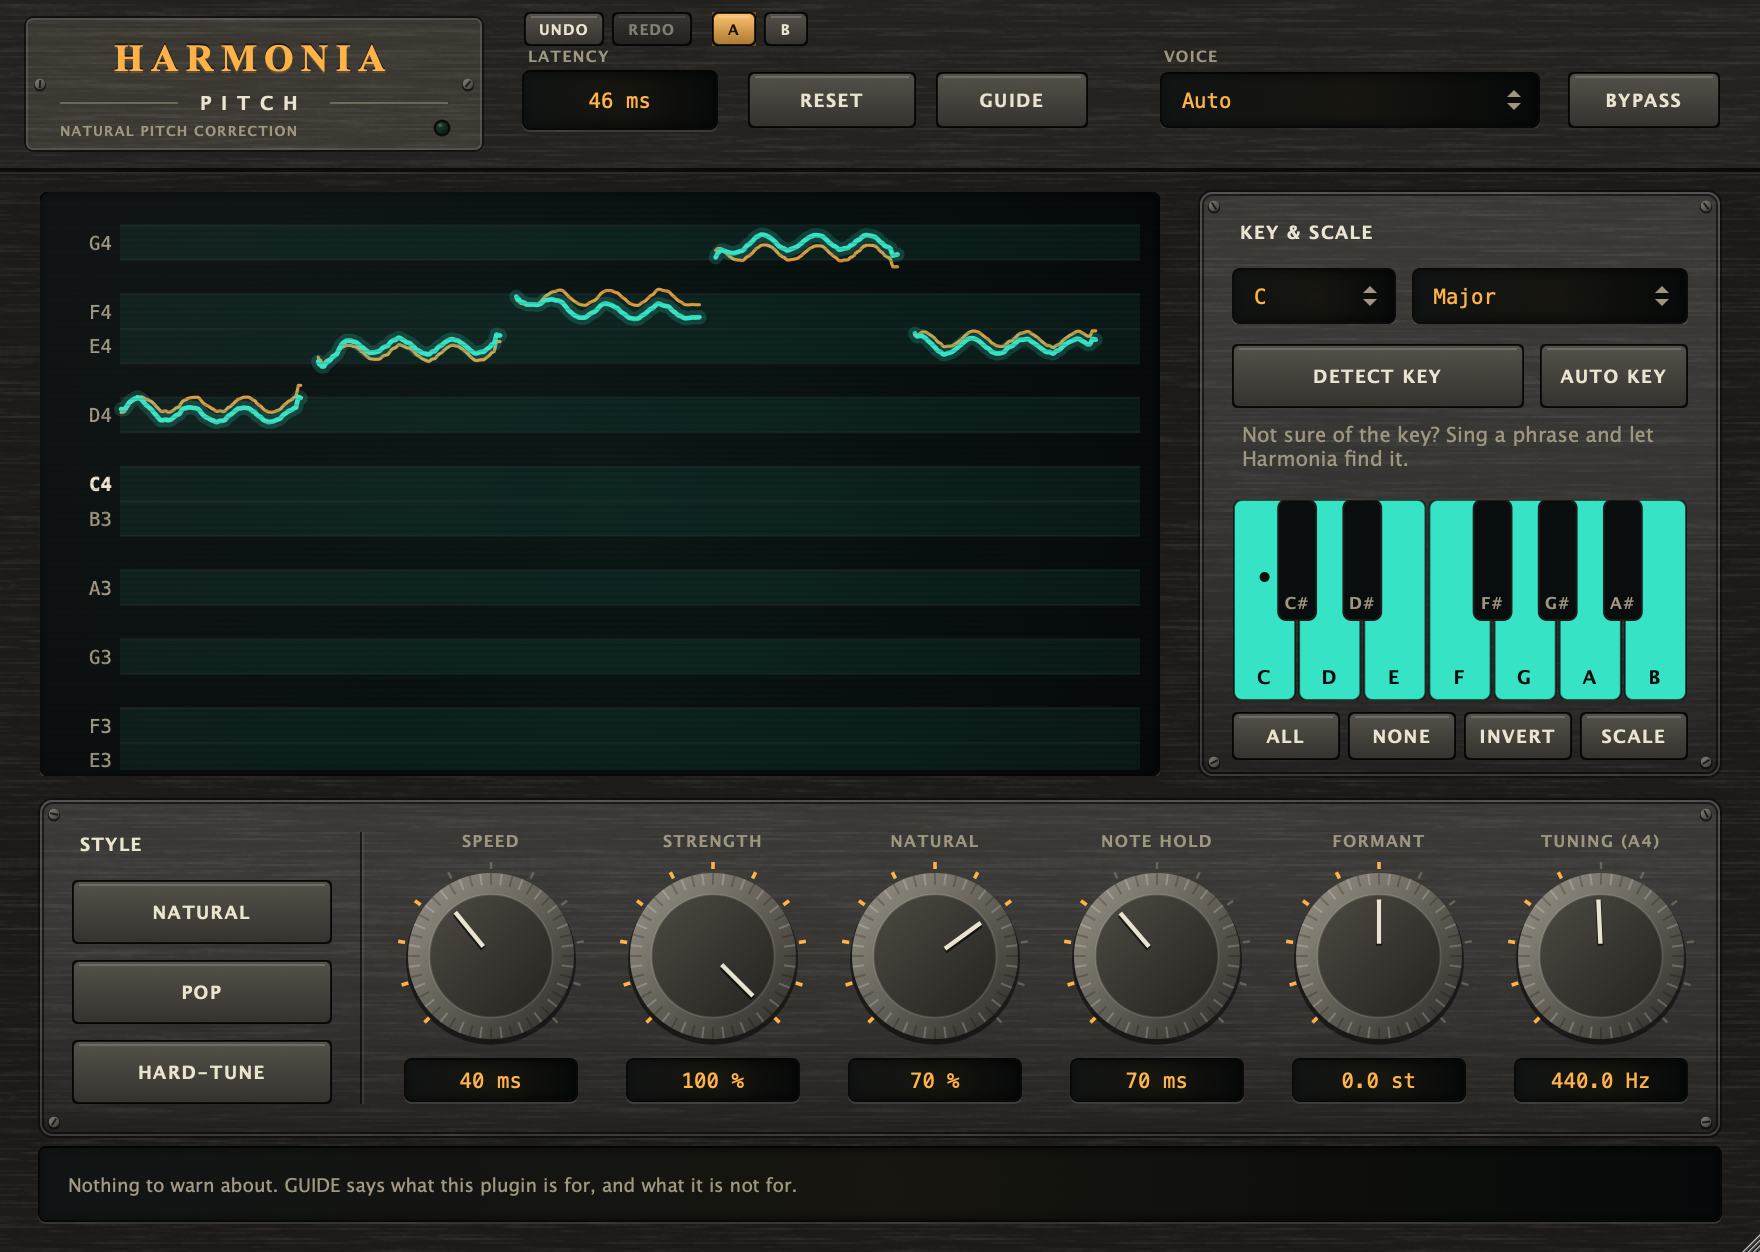
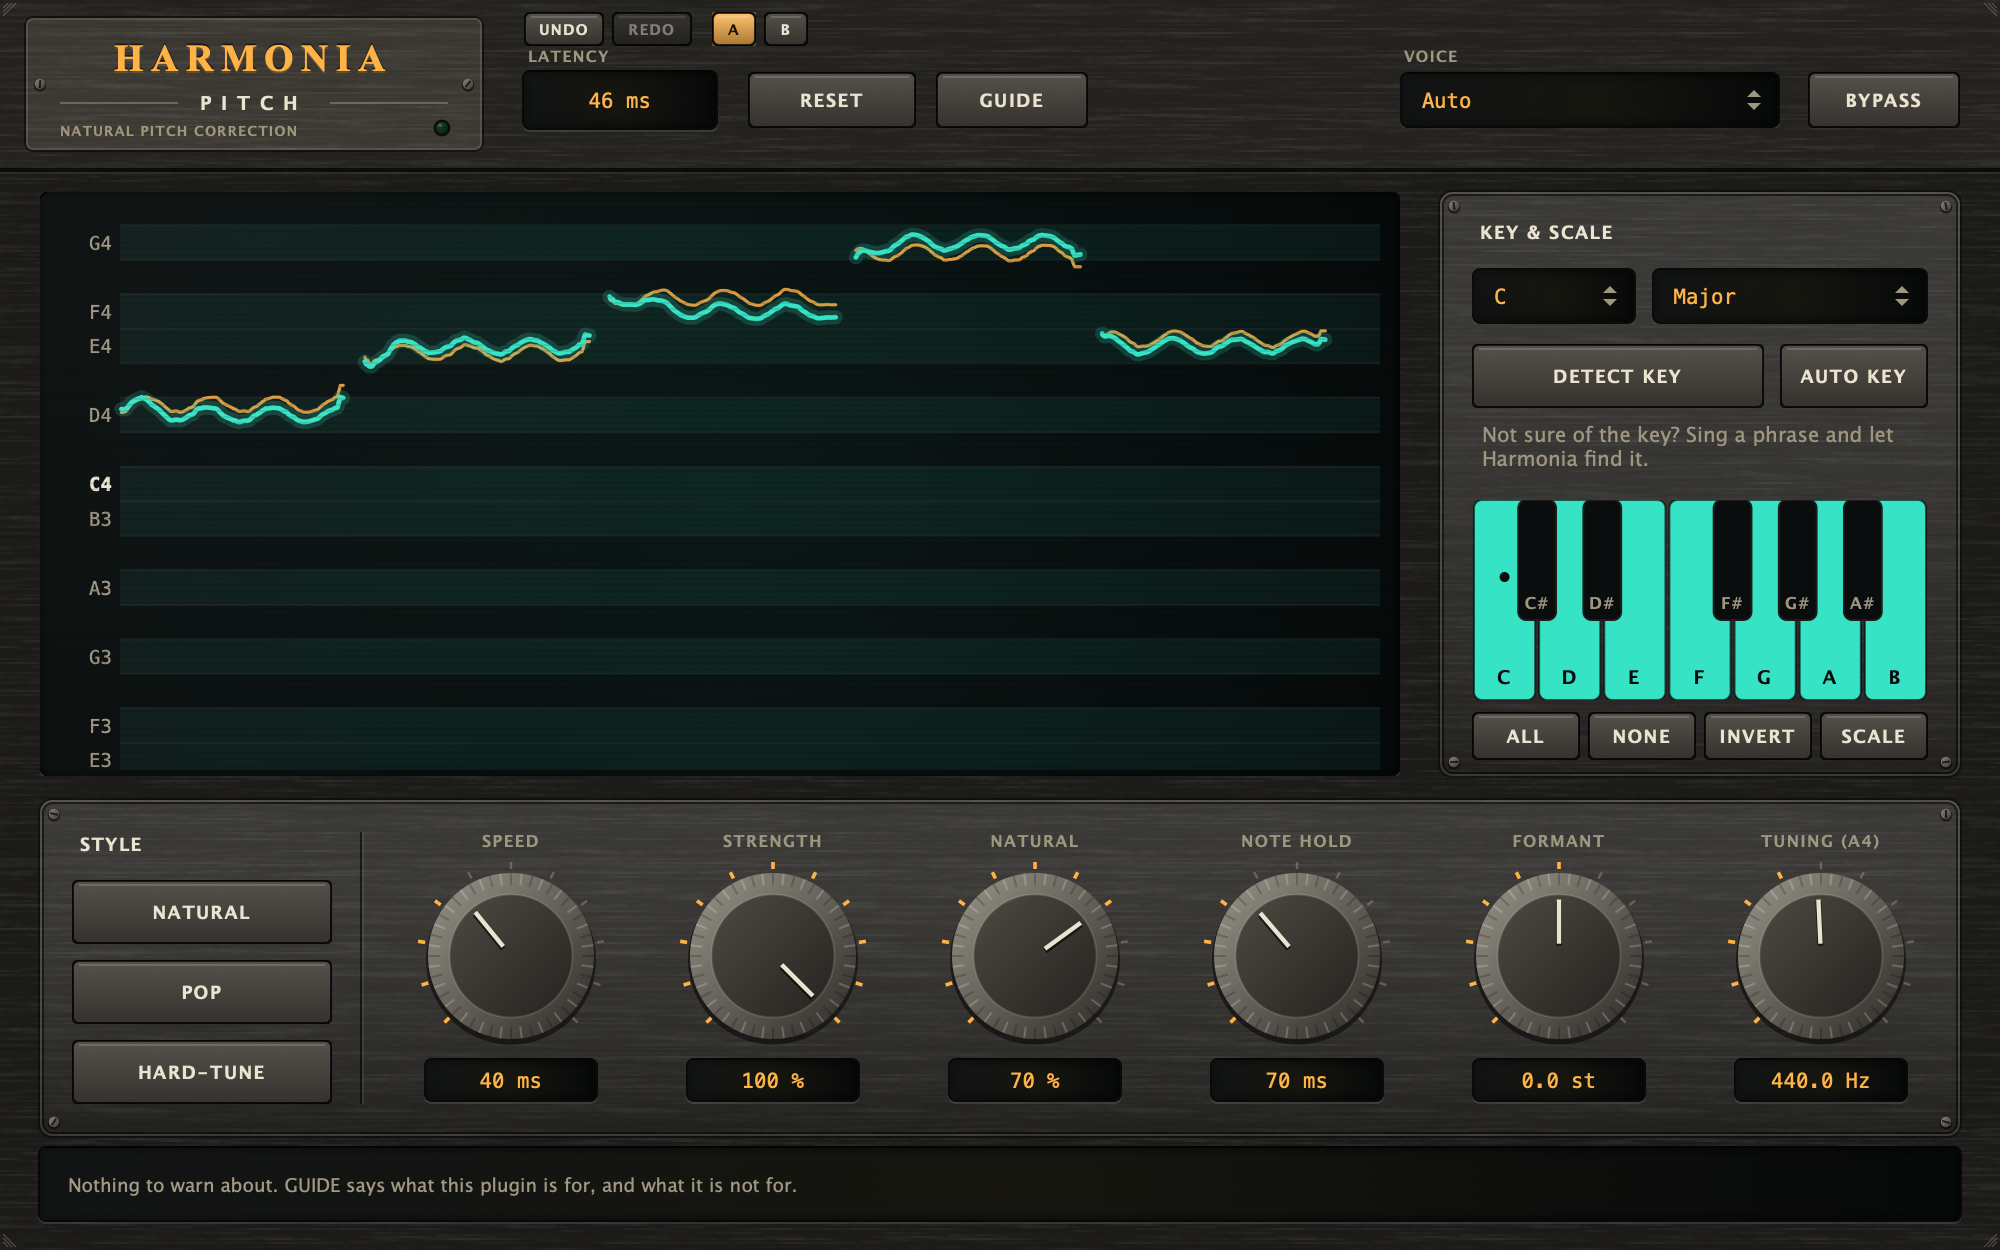
Harmonia: 16:10 design size and the kit's four corner handles
The editor is drawn at 1000 x 625 (kDesignH is ui::editorHeightFor of
kDesignW) and scaled from 75% to 200%. The layout is absolute, drawn for
880 px before; kWide (120 px) widens the graph, the key module, the
knobs and the note strip to take the difference.

The window's corners are the kit's ui::ResizeGrips, which keep the
16:10 ratio and the 75% to 200% limits; the editor no longer sets its
own resize limits. DevTool's selftest checks the shape and the handles;
the README and CLAUDE.md describe the corners and the shape; the
screenshot is regenerated.

diff --git a/plugins/harmonia/Source/PluginEditor.cpp b/plugins/harmonia/Source/PluginEditor.cpp
@@ -21,10 +21,11 @@ const Preset kPresets[3] = {
 };
 
 const juce::Identifier kScaleProperty { "uiScale" };
-constexpr int kKnobX = 190, kKnobW = 111, kKnobTop = 412, kKnobH = 140, kNumKnobs = 6;
+constexpr int kWide = 120; // what 16:10 adds to the width the layout was drawn for (880): the graph, the key module and the knobs take it
+constexpr int kKnobX = 190, kKnobW = 111 + kWide / 6, kKnobTop = 412, kKnobH = 140, kNumKnobs = 6;
 constexpr int kRowTop = 96, kRowH = 292;       // the graph and the key module
 constexpr int kStyleTop = 400, kStyleH = 168;  // the style and knob module
-const juce::Rectangle<int> kNoteStrip { 20, kStyleTop + kStyleH + 6, 840, ui::kNoteStripHeight }; // the notes, under it
+const juce::Rectangle<int> kNoteStrip { 20, kStyleTop + kStyleH + 6, 840 + kWide, ui::kNoteStripHeight }; // the notes, under it
 } // namespace
 
 HarmoniaEditor::HarmoniaEditor (HarmoniaProcessor& p)
@@ -113,9 +114,8 @@ HarmoniaEditor::HarmoniaEditor (HarmoniaProcessor& p)
     setupKnob (5, ids::tuning, "TUNING (A4)",
                "Reference pitch for A4. Change it if the song is not tuned to 440 Hz.");
 
-    setResizable (true, true);
-    setResizeLimits (kDesignW * 3 / 4, kDesignH * 3 / 4, kDesignW * 2, kDesignH * 2);
-    getConstrainer()->setFixedAspectRatio ((double) kDesignW / (double) kDesignH);
+    grips = std::make_unique<ui::ResizeGrips> (*this, kDesignW * 3 / 4, kDesignW, kDesignW * 2); // all four corners, 16:10, 75% to 200%
+    addAndMakeVisible (*grips);
     // The size is kept with the session (a property of the state, as the other plug-ins keep `uiScale`), so the window opens as it was left.
     // (read at the top of the constructor: setResizeLimits resizes the window and resized() writes the property)
     setSize (juce::roundToInt ((float) kDesignW * savedScale), juce::roundToInt ((float) kDesignH * savedScale));
@@ -139,29 +139,31 @@ void HarmoniaEditor::setupKnob (int index, const char* id, const juce::String& t
 void HarmoniaEditor::resized()
 {
     content.setBounds (0, 0, kDesignW, kDesignH);
+    if (grips != nullptr)
+        grips->setBounds (getLocalBounds());
     const float scale = (float) getWidth() / (float) kDesignW;
     content.setTransform (juce::AffineTransform::scale (scale));
     if (std::fabs (scale - (float) (double) proc.apvts.state.getProperty (kScaleProperty, -1.0)) > 0.002f)
         proc.apvts.state.setProperty (kScaleProperty, (double) scale, nullptr);
 
-    rangeBox.setBounds (580, 36, 190, 28);
-    bypassButton.setBounds (784, 36, 76, 28);
+    rangeBox.setBounds (580 + kWide, 36, 190, 28);
+    bypassButton.setBounds (784 + kWide, 36, 76, 28);
     resetButton.setBounds (kLatencyBounds.getRight() + 16, 36, 84, 28);
     guideButton.setBounds (resetButton.getRight() + 10, 36, 76, 28);
     undoButtons.setBounds (kLatencyBounds.getX(), 6, ui::UndoButtons::kWidth, 17); // in the strip above the controls, which the captions leave free
     abButtons.setBounds (kLatencyBounds.getX() + ui::UndoButtons::kWidth + 10, 6, ui::AbButtons::kWidth, 17);
 
-    graph.setBounds (20, kRowTop, 560, kRowH);
+    graph.setBounds (20, kRowTop, 560 + kWide, kRowH);
 
-    keyBox.setBounds (616, kRowTop + 38, 82, 28);
-    scaleBox.setBounds (706, kRowTop + 38, 138, 28);
-    detectButton.setBounds (616, kRowTop + 76, 146, 32);
-    autoKeyButton.setBounds (770, kRowTop + 76, 74, 32);
-    statusLabel.setBounds (616, kRowTop + 114, 228, 34);
-    keyboard.setBounds (616, kRowTop + 154, 228, 100);
+    keyBox.setBounds (616 + kWide, kRowTop + 38, 82, 28);
+    scaleBox.setBounds (706 + kWide, kRowTop + 38, 138, 28);
+    detectButton.setBounds (616 + kWide, kRowTop + 76, 146, 32);
+    autoKeyButton.setBounds (770 + kWide, kRowTop + 76, 74, 32);
+    statusLabel.setBounds (616 + kWide, kRowTop + 114, 228, 34);
+    keyboard.setBounds (616 + kWide, kRowTop + 154, 228, 100);
 
     for (int i = 0; i < 4; ++i)
-        noteButtons[i].setBounds (616 + i * 58, kRowTop + 260, 54, 24);
+        noteButtons[i].setBounds (616 + kWide + i * 58, kRowTop + 260, 54, 24);
 
     for (int i = 0; i < 3; ++i)
         presetButtons[i].setBounds (36, kStyleTop + 40 + i * 40, 130, 32);
@@ -188,19 +190,19 @@ void HarmoniaEditor::paintContent (juce::Graphics& g)
     hw::drawLabel (g, "Voice", { rangeBox.getX() + 2, rangeBox.getY() - 14, 90, 12 }, juce::Justification::left, colours::dim, 9.0f);
 
     // key and scale
-    hw::drawModule (g, juce::Rectangle<float> (600.0f, (float) kRowTop, 260.0f, (float) kRowH));
-    hw::drawLabel (g, "Key & scale", { 620, kRowTop + 12, 220, 16 }, juce::Justification::left, colours::text, 10.5f);
+    hw::drawModule (g, juce::Rectangle<float> ((float) (600 + kWide), (float) kRowTop, 260.0f, (float) kRowH));
+    hw::drawLabel (g, "Key & scale", { 620 + kWide, kRowTop + 12, 220, 16 }, juce::Justification::left, colours::text, 10.5f);
     if (keysLocked)
     {
         g.setColour (colours::dim);
         g.setFont (ui::font (11.0f));
-        g.drawText ("Follows your vocal", 716, kRowTop + 10, 128, 20, juce::Justification::centredRight);
+        g.drawText ("Follows your vocal", 716 + kWide, kRowTop + 10, 128, 20, juce::Justification::centredRight);
     }
 
     ui::drawNoteStrip (g, kNoteStrip, harmonia::adviceFor (adviceInput()));
 
     // style and the knobs
-    hw::drawModule (g, juce::Rectangle<float> (20.0f, (float) kStyleTop, 840.0f, (float) kStyleH));
+    hw::drawModule (g, juce::Rectangle<float> (20.0f, (float) kStyleTop, (float) (840 + kWide), (float) kStyleH));
     hw::drawLabel (g, "Style", { 40, kStyleTop + 14, 120, 16 }, juce::Justification::left, colours::text, 10.5f);
     g.setColour (juce::Colours::black.withAlpha (0.6f)); // a groove between the presets and the knobs
     g.fillRect (180.0f, (float) kStyleTop + 16.0f, 1.0f, 136.0f);
@@ -317,7 +319,7 @@ void HarmoniaEditor::timerCallback()
     if (following != keysLocked)
     {
         keysLocked = following;
-        content.repaint (716, kRowTop + 10, 128, 20);
+        content.repaint (716 + kWide, kRowTop + 10, 128, 20);
         for (auto& b : noteButtons)
             b.setEnabled (! keysLocked);
     }

diff --git a/plugins/harmonia/Tests/DevTool.cpp b/plugins/harmonia/Tests/DevTool.cpp
@@ -260,6 +260,15 @@ static int selftest()
         p2.apvts.state.setProperty ("uiScale", 1.5, nullptr);
         HarmoniaEditor e (p2);
         check (std::abs (e.getWidth() - (int) std::lround (1.5 * HarmoniaEditor::kDesignW)) <= 1, "the editor opens at the saved size", e.getWidth());
+        check (ui::hasEditorAspect (HarmoniaEditor::kDesignW, HarmoniaEditor::kDesignH) && std::abs (e.getConstrainer()->getFixedAspectRatio() - ui::kEditorAspect) < 1e-9,
+               "the editor is drawn at 16:10, the shape of every plugin, and the window keeps it", (double) HarmoniaEditor::kDesignW / (double) HarmoniaEditor::kDesignH);
+        {
+            int corners = 0;
+            for (auto* child : e.getChildren())
+                if (dynamic_cast<ui::ResizeGrips*> (child) != nullptr)
+                    ++corners;
+            check (corners == 1, "the window has the kit's four corner handles", corners);
+        }
         e.setSize (HarmoniaEditor::kDesignW * 3 / 4, HarmoniaEditor::kDesignH * 3 / 4);
         check (std::fabs ((double) p2.apvts.state.getProperty ("uiScale") - 0.75) < 0.01, "resizing it is written to the state", (double) p2.apvts.state.getProperty ("uiScale"));
         juce::MemoryBlock mb;

diff --git a/plugins/harmonia/Source/PluginEditor.h b/plugins/harmonia/Source/PluginEditor.h
@@ -11,6 +11,7 @@
 
 #include <pantheon/ui/AbCompare.h>
 #include <pantheon/ui/Advice.h>
+#include <pantheon/ui/Resize.h>
 #include <pantheon/ui/Undo.h>
 #include <juce_audio_processors/juce_audio_processors.h>
 
@@ -33,7 +34,7 @@ public:
     enum class NoteAction { all, none, invert, scale };
     void noteAction (NoteAction);
 
-    static constexpr int kDesignW = 880, kDesignH = 626; // the editor is drawn at this size and scaled; the foot strip is the notes' (or GUIDE's reminder)
+    static constexpr int kDesignW = 1000, kDesignH = ui::editorHeightFor (kDesignW); // 16:10; the editor is drawn at this size and scaled; the foot strip is the notes' (or GUIDE's reminder)
 
 private:
     static constexpr int kHeaderH = 84;
@@ -66,6 +67,7 @@ private:
     HarmoniaProcessor& proc;
     HardwareLookAndFeel laf;
     Content content;
+    std::unique_ptr<ui::ResizeGrips> grips; // the four corners, over everything (added last)
     juce::TooltipWindow tooltips { this, 500 };
 
     PitchGraph graph;

diff --git a/plugins/harmonia/README.md b/plugins/harmonia/README.md
@@ -35,7 +35,7 @@ line and the key it is meant to be in. (CMake targets, namespaces and plugin cod
 | **Note buttons** | Under the piano keys: **ALL** allows every note, **NONE** blocks every note, **INVERT** flips every key, **SCALE** goes back to the scale of the key shown after you edited the keys by hand (the last scale you chose; Major at first). Each switches to *Custom* where it sets notes, and is one undo step. Off while Auto key follows the vocal. |
 | **MIDI notes** | While MIDI notes are held (any channel, any octave) their note names are the allowed notes, so you can play the melody or chord to follow and the voice is pulled to it; release them and the piano keys are back. The piano shows the held notes. It needs the host to send MIDI to the plug-in: the VST3 and the standalone take it, most AU hosts do not send MIDI to an effect (the AU keeps its effect type, so a host that does not will simply not use this). A host stop or jump drops the held notes. |
 | **Undo and A/B** | **UNDO / REDO** (Cmd+Z, Shift+Cmd+Z; Ctrl on other systems) take back and redo changes to the controls, the keys and the style buttons, each as one step. **A / B** holds two complete settings (not the host's Bypass): the first time B is a copy of A, after that each switch keeps what you set in the one you leave and loads the other. Neither is saved with the session except which slot is active. |
-| **Window size** | Drag the corner (75 % to 200 %); the size is kept with the session. |
+| **Window size** | Drag any of the four corners (75 % to 200 %, always 16:10); double-click a corner for the opening size. The size is kept with the session. |
 | **Detect key** | Listens to your vocal and sets key + major/minor for you, once. If the host is not running audio (stopped) nothing can listen: after a second the plug-in says so and withdraws the request. |
 | **Auto key** | Keeps following the key of the vocal and changes it when the song modulates or a new section starts. Major/minor only; it needs about 6 s of singing before it commits, and takes about 4 s to follow a key change. Key and Scale are ignored while it is on (they still apply until the key is known). Automatable. |
 | **Style** | *Natural* for transparent correction, *Pop* for a polished studio sound, *Hard-tune* for the robotic effect. |

diff --git a/plugins/harmonia/CLAUDE.md b/plugins/harmonia/CLAUDE.md
@@ -76,7 +76,7 @@ passes unless it persists.
 
 ## Gotchas already paid for
 
-- **Not a `ui::ScaledEditor`.** Harmonia's editor scales itself (`kDesignW` x `kDesignH` drawn in a `content` component and scaled by a transform, from 75% to 200%, fixed aspect), as `ScaledEditor` does for the other plugins; it is the one the kit's was modelled on. Do not wrap it in `ScaledEditor` and do not change its size without changing `kDesignW`/`kDesignH` and regenerating the screenshot.
+- **Not a `ui::ScaledEditor`.** Harmonia's editor scales itself (`kDesignW` x `kDesignH` drawn in a `content` component and scaled by a transform, from 75% to 200%, 16:10 like every plugin and app, with the kit's four corner handles `ui::ResizeGrips` in `grips`), as `ScaledEditor` does for the other plugins; it is the one the kit's was modelled on. Do not wrap it in `ScaledEditor` and do not change its size without changing `kDesignW`/`kDesignH` and regenerating the screenshot (`kDesignH` is `ui::editorHeightFor (kDesignW)`; the layout is absolute, drawn for 880 px and widened by `kWide`).
 - In an editor constructor call `setSize()` **last**.
 - The default `/usr/bin/clang` can link against a broken Command Line Tools SDK: that is why the scripts source `scripts/toolchain.sh` and point everything at Xcode's SDK (`DEVELOPER_DIR`, `SDKROOT`). A plain `cmake` on a fresh folder may need the same.
 - The build is a universal binary (arm64 and x86_64, deployment target 11.0) so the plug-in loads whether the host runs natively or under Rosetta.
